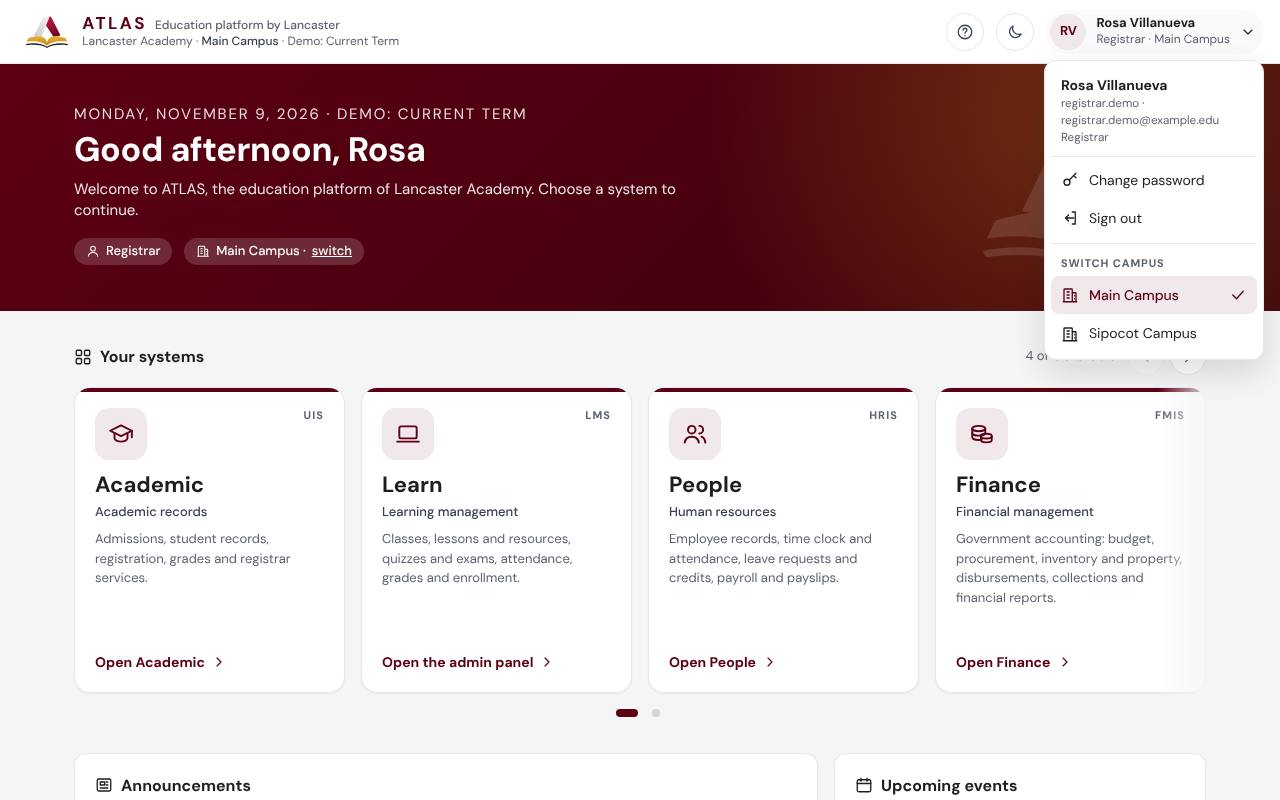
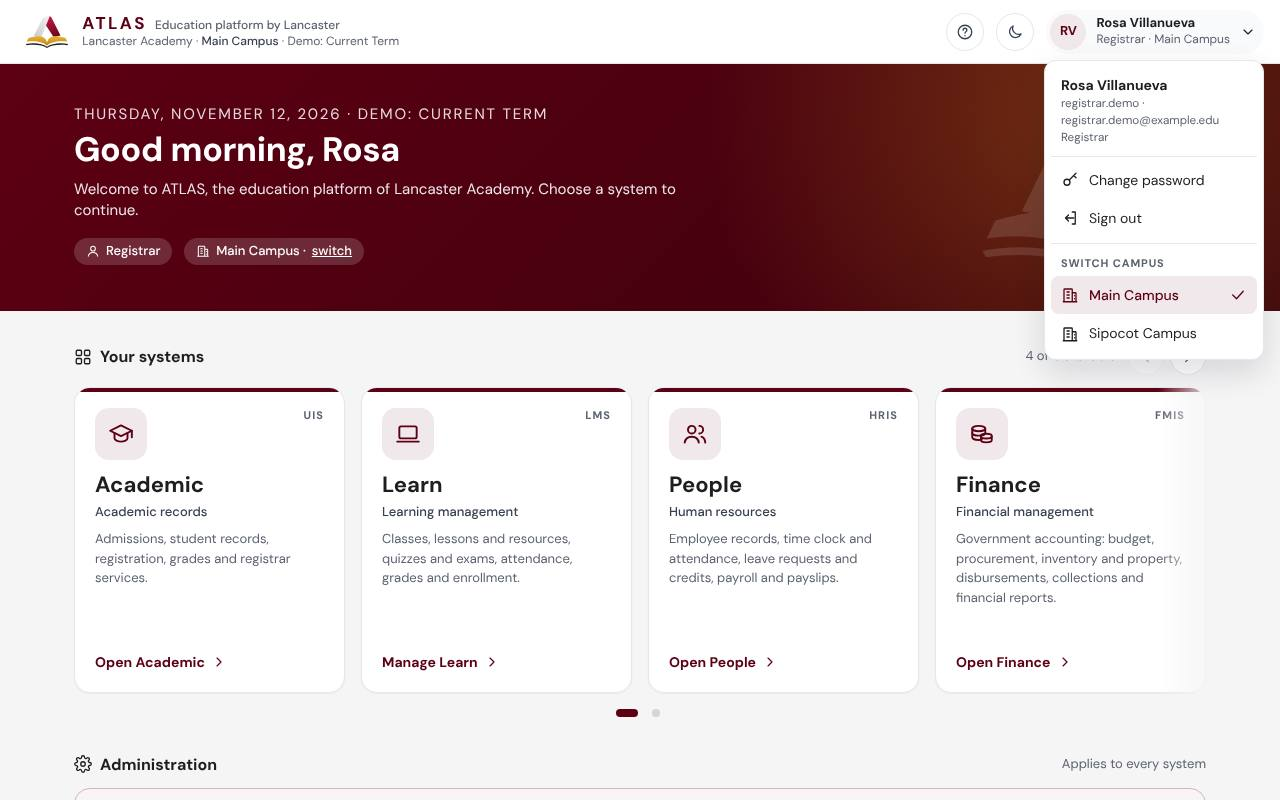
ATLAS home: Administration section with the Admin panel, as in CORE
Below "Your systems", administrators and registrars now get an Administration
section like CORE ERP's home page: an Admin panel banner, and shortcut tiles
into it, each shown only to accounts that may open that page (administrators:
Users & Access, Settings center, Audit log, What's new; registrars: Enrollment
requests, Applicants, What's new). Deans, teachers, students and parents do not
see it. The Learn tile for these accounts now says "Manage Learn".

Guides (admin, registrar, getting started, what's new) updated; new screenshot
home-administration.jpg; getting-started-user-menu.jpg retaken.

Claude-Session: https://claude.ai/code/session_0144m4kAiN1qd67UTLL7L4Zw

diff --git a/lms/public/js/hub/app.js b/lms/public/js/hub/app.js
@@ -4,7 +4,7 @@ import { api } from '../api.js';
 import { html, mount, option, initials, timeAgo, fmtDate } from '../ui.js';
 import { ctx, applyBranding, failureNotice, authPlate, atlasWord, markSrc, BYLINE, ssoBlock, passwordFields, showSsoError, passwordField, onFormSubmit, forcePasswordView, openChangePassword, setTheme, isDark, renderThemeButton, campusMenu, wireCampusMenu } from '../shell.js';
 import { icon, iconSvg } from '../icons.js';
-import { roleLabel } from '/shared/roles.js';
+import { roleLabel, userCan } from '/shared/roles.js';
 
 const authEl = document.getElementById('auth');
 const appEl = document.getElementById('app');
@@ -121,7 +121,8 @@ const dateBox = (ymd) => {
 
 function systemCard(s, side) {
   const live = s.status === 'live' && s.url;
-  const openLabel = s.id === 'lms' && side === 'admin' ? 'Open the admin panel' : `Open ${s.product}`;
+  // The admin panel has its own place under Administration; from here it is where Learn is run.
+  const openLabel = s.id === 'lms' && side === 'admin' ? 'Manage Learn' : `Open ${s.product}`;
   const body = html`
     <span class="sys-top"><span class="sys-ic">${icon(s.icon, 26)}</span>${live ? html`<span class="sys-code">${s.short}</span>` : html`<span class="badge gray">${icon('lock', 12)} Coming soon</span>`}</span>
     <span class="sys-name">${s.product.replace(/-/g, '\u2011')}</span>
@@ -190,6 +191,35 @@ function systemsCarousel(wrap) {
   update();
 }
 
+// Administration, as on CORE's home page: the admin panel, and shortcuts to the pages in it that
+// apply to every system. Only for accounts that open the admin panel (administrators, registrars),
+// and each shortcut only for those whose account may open that page.
+function administration(status) {
+  const u = status.user;
+  if (status.side !== 'admin' || !userCan(u, 'dashboard')) return '';
+  const admin = u.role === 'admin';
+  const tiles = [
+    admin && ['/admin#/system/users', 'users', 'Users & Access', 'Every account, its access and sign-in'],
+    userCan(u, 'settings.edit') && ['/admin#/config', 'search', 'Settings center', 'Every setting, its history and undo'],
+    admin && ['/admin#/system/audit', 'table', 'Audit log', 'Sign-ins, changes and refused requests'],
+    userCan(u, 'enrollment.manage') && ['/admin#/enrollment', 'clipboard', 'Enrollment requests', 'Waiting for the registrar'],
+    userCan(u, 'students.manage') && ['/admin#/applicants', 'userPlus', 'Applicants', 'Applications for admission'],
+  ].filter(Boolean).slice(0, 3);
+  tiles.push(['/help/#/whats-new', 'sparkle', 'What\'s new', 'What changed in each update']);
+  const covers = admin
+    ? 'Users and access, campuses, the catalog, modules, the Settings center, branding, sign-in security, data and backups'
+    : 'Enrollment, applicants and students, the catalog, terms and sections, news and the school calendar';
+  return html`<section class="hub-wrap" aria-labelledby="admin-heading">
+    <div class="card-head"><h2 id="admin-heading">${icon('settings')} Administration</h2><span class="muted small">Applies to every system</span></div>
+    <a class="admin-hero" href="/admin">
+      <span class="admin-hero-ic">${icon('shield', 28)}</span>
+      <span class="grow"><strong>Admin panel</strong><small>${covers}</small></span>
+      <span class="admin-hero-open">Open ${icon('chevronRight', 16)}</span>
+    </a>
+    <div class="admin-tiles">${tiles.map(([href, ic, title, sub]) => html`<a class="admin-tile" href="${href}"><span class="ic-box">${icon(ic, 20)}</span><span class="grow"><strong>${title}</strong><small>${sub}</small></span>${icon('chevronRight', 16)}</a>`)}</div>
+  </section>`;
+}
+
 async function homeView(status) {
   const u = status.user;
   const hour = new Date().getHours();
@@ -213,6 +243,7 @@ async function homeView(status) {
       </div>
       <div class="sys-dots" id="sys-dots" hidden></div>
     </section>
+    ${administration(status)}
     <section class="hub-wrap cols wide-left" id="feed"></section>
     <footer class="hub-foot"><div class="hub-wrap"><span>© ${new Date().getFullYear()} ${status.branding.schoolName}</span><span class="atlas-foot"><img src="${markSrc(isDark())}" alt="" />ATLAS · ${BYLINE}</span></div></footer>`);
   systemsCarousel(appEl.querySelector('#sys-carousel'));

diff --git a/lms/public/css/styles.css b/lms/public/css/styles.css
@@ -597,6 +597,27 @@ a.sys-card:hover { text-decoration: none; transform: translateY(-2px); box-shado
 .sys-card.soon .sys-name, .sys-card.soon .sys-open { color: var(--muted); }
 .sys-card.soon .sys-title { color: var(--text-2); }
 .sys-card.soon .sys-open { font-weight: 500; }
+/* Administration on the home page (as on CORE's): the admin panel, then shortcuts into it. */
+.admin-hero { display: flex; align-items: center; gap: 18px; padding: 22px 24px; background: var(--brand-softer); border: 1px solid var(--brand-line); border-radius: 16px; color: var(--text); box-shadow: var(--shadow); transition: box-shadow 0.14s, border-color 0.14s; }
+a.admin-hero:hover { text-decoration: none; box-shadow: var(--shadow-lg); border-color: var(--brand); }
+.admin-hero-ic { width: 56px; height: 56px; border-radius: 14px; display: grid; place-items: center; flex: none; background: var(--brand); color: #fff; }
+.admin-hero .grow { flex: 1; min-width: 0; }
+.admin-hero strong { display: block; font-size: 20px; line-height: 1.25; }
+.admin-hero small { display: block; margin-top: 2px; color: var(--muted); font-size: 14px; line-height: 1.45; }
+.admin-hero-open { display: inline-flex; align-items: center; gap: 6px; font-weight: 700; color: var(--brand-text); flex: none; }
+.admin-tiles { display: grid; grid-template-columns: repeat(auto-fit, minmax(220px, 1fr)); gap: 12px; margin-top: 12px; }
+.admin-tile { display: flex; align-items: center; gap: 12px; padding: 16px; background: var(--surface); border: 1px solid var(--border); border-radius: 14px; color: var(--text); box-shadow: var(--shadow); }
+a.admin-tile:hover { text-decoration: none; border-color: var(--brand-line); background: var(--brand-softer); }
+.admin-tile .ic-box { width: 42px; height: 42px; border-radius: 12px; display: grid; place-items: center; flex: none; background: var(--brand-soft); color: var(--brand-text); }
+.admin-tile .grow { flex: 1; min-width: 0; }
+.admin-tile strong { display: block; font-size: 14px; }
+.admin-tile small { display: block; color: var(--muted); font-size: 12.5px; line-height: 1.4; }
+.admin-tile > svg { color: var(--muted); flex: none; }
+@media (max-width: 560px) {
+  .admin-hero { flex-wrap: wrap; padding: 18px; gap: 14px; }
+  .admin-hero .grow { flex-basis: calc(100% - 70px); }
+  .admin-hero-open { margin-left: 70px; }
+}
 .hub-foot { margin-top: auto; padding: 22px 0; border-top: 1px solid var(--border); color: var(--muted); font-size: 12px; }
 .hub-foot .hub-wrap { display: flex; justify-content: space-between; gap: 12px; flex-wrap: wrap; }
 #feed { margin-bottom: 32px; }

diff --git a/lms/docs/guides/registrar.md b/lms/docs/guides/registrar.md
@@ -14,7 +14,7 @@ This guide is for registrars and their staff. Your work happens in two places:
 - **The Admin panel of ATLAS Learn**: enrollment requests and waitlists, applicants, student accounts, and the catalog (sections, courses, terms, programs).
 - **ATLAS Academic**: student records, curricula, grade sheets, grade changes, document requests, reports and the academic settings.
 
-To sign in, open the ATLAS home page and sign in with your username and password. On the home page, the **Learn** tile says *Open the admin panel*, and the **Academic** tile says *Open Academic*. You can also sign in to the Admin panel directly at `/admin`.
+To sign in, open the ATLAS home page and sign in with your username and password. On the home page, **Administration** (below your systems) has the **Admin panel**, with shortcuts to **Enrollment requests** and **Applicants**; the **Learn** tile says *Manage Learn* and also opens the Admin panel, and the **Academic** tile says *Open Academic*. You can also sign in to the Admin panel directly at `/admin`.
 
 If you work at more than one campus, the campus you are on shows in the top bar. To change it, choose your name at the top right and pick a campus under **Switch campus**. Every list (students, sections, enrollment requests, grade sheets, document requests) follows the campus you are on.
 
@@ -26,7 +26,7 @@ Use the demo school to try the whole job once. Sign in as `registrar.demo` (pass
 
 ### 1. Approve a request
 
-1. On the ATLAS home page, open the **Learn** tile (*Open the admin panel*). The **Dashboard** shows the current term, whether its enrollment window is open, and counts of pending requests, waitlisted students and applicants.
+1. On the ATLAS home page, under **Administration**, choose **Admin panel**. The **Dashboard** shows the current term, whether its enrollment window is open, and counts of pending requests, waitlisted students and applicants.
 2. Open **Enrollment requests**. The **Pending approval** tab lists every request waiting for you.
 3. Type `Carlo` in the search box. Carlo Reyes has asked for a seat in PE101 A. Choose **Approve**. He is now enrolled.
 

diff --git a/lms/docs/guides/getting-started.md b/lms/docs/guides/getting-started.md
@@ -74,7 +74,7 @@ If your school has also kept ATLAS passwords, the card says **or with your ATLAS
 1. On the ATLAS home page, choose the tile, for example **Open Learn**.
 2. To come back, choose **All systems** (the grid of squares) in the top bar.
 
-Administrators and registrars see **Open the admin panel** on the Learn tile, because they manage Learn instead of taking classes. A tile marked **Coming soon** cannot be opened yet.
+Administrators and registrars also have **Administration** below their systems: the **Admin panel**, and shortcuts to the pages in it they use most. Their Learn tile says **Manage Learn**, because they run Learn instead of taking classes. A tile marked **Coming soon** cannot be opened yet.
 
 ### Switch campus
 
@@ -148,7 +148,7 @@ The registrar reviews your application. Once you are admitted, you sign in with 
 | Screen or button | What it is for |
 |---|---|
 | Sign-in page | The ATLAS home page before you sign in: the **Sign in** card, the Keycloak button when your school uses it, and **Apply for admission** when applications are open; **Help & guides** and **Dark mode** at the top right |
-| ATLAS home page | Your greeting, account type and campus, **Your systems** (a row of tiles with arrows and dots when they do not all fit), **Announcements** and **Upcoming events** |
+| ATLAS home page | Your greeting, account type and campus, **Your systems** (a row of tiles with arrows and dots when they do not all fit), **Administration** (administrators and registrars: the Admin panel and shortcuts into it), **Announcements** and **Upcoming events** |
 | Academic tile | Academic records: student records, registration, grades and registrar services. For students, teachers, registrars, deans and administrators |
 | Learn tile | Classes, lessons, quizzes, attendance, grades and enrollment. For students, parents and guardians, and teachers; registrars and administrators open its admin panel |
 | People tile | HR: employee records, time clock, attendance, leave and payslips. For every employee; not for students or parents |

diff --git a/lms/docs/guides/whats-new.md b/lms/docs/guides/whats-new.md
@@ -9,6 +9,9 @@ order: 2
 
 ## November 2026
 
+### The Admin panel on the home page
+- **Administration**, below your systems on the ATLAS home page, as in CORE: the **Admin panel**, and shortcuts to the pages in it you use most (administrators: **Users & Access**, the **Settings center**, the **Audit log** and **What's new**; registrars: **Enrollment requests** and **Applicants**). For administrators and registrars only. The Learn tile now says **Manage Learn**. See [the administrator's guide](admin).
+
 ### ATLAS behind Cloudflare
 - **System → Cloudflare** (Admin panel, administrators only) puts ATLAS behind Cloudflare at a name on the school's own domain, like `atlas.school.edu.ph`. Paste a Cloudflare API token once: ATLAS adds the address in Cloudflare, sets SSL/TLS to Full (strict), and the server switches over by itself, with its own certificate. The token is not kept. The page then shows whether the server has its certificate and answers through Cloudflare, can make the server **Only accept visitors through Cloudflare**, and can switch Cloudflare off again. The server needs its Cloudflare helper installed once. See [the administrator's guide](admin#put-atlas-behind-cloudflare).
 

diff --git a/lms/docs/guides/admin.md b/lms/docs/guides/admin.md
@@ -16,7 +16,9 @@ The **Admin panel** is the school side of ATLAS Learn. Administrators and regist
 To open it:
 
 1. Sign in on the ATLAS home page.
-2. On the **Learn** tile, choose **Open the admin panel**.
+2. Under **Administration**, below your systems, choose **Admin panel**. The tiles beside it go straight to **Users & Access**, the **Settings center**, the **Audit log** and **What's new**.
+
+![Administration on the ATLAS home page: the Admin panel and shortcuts into it](home-administration.jpg)
 
 The admin panel also has its own sign-in page at `/admin`, for administrators and registrars.
 
@@ -28,7 +30,7 @@ Most lists in the admin panel show **one campus at a time**: the campus shown un
 
 This tour uses the demo school, signed in as `admin`.
 
-1. On the ATLAS home page, choose **Open the admin panel** on the Learn tile. The **Dashboard** opens.
+1. On the ATLAS home page, under **Administration**, choose **Admin panel**. The **Dashboard** opens.
 
 ![The Dashboard: enrollment numbers, the fullest sections and recent activity](admin-dashboard.jpg)
 
